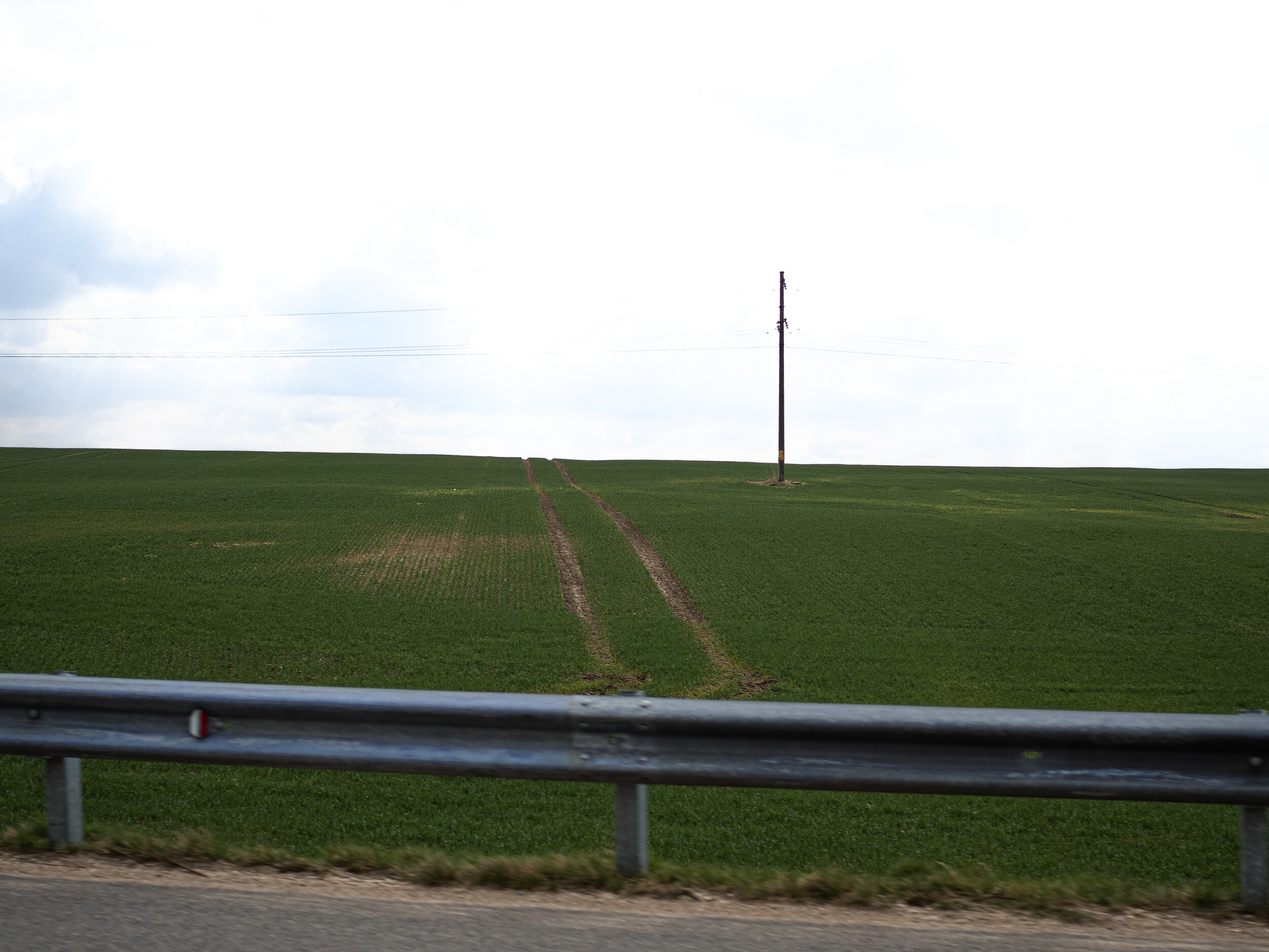
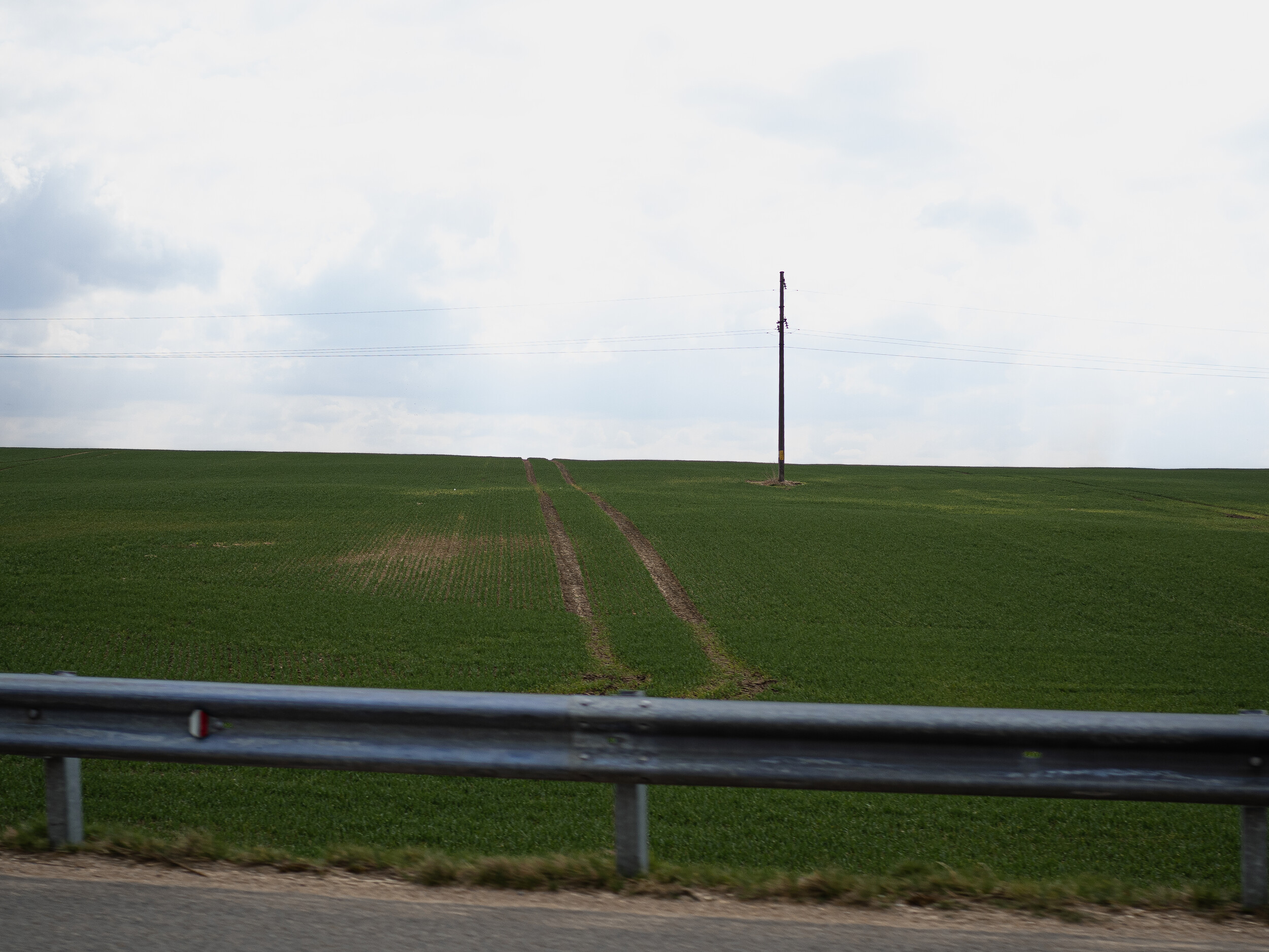
Deploying to gh-pages from @ sunify/photos@cdd427d0ebd54cec449444499ba0542eceeb8890 🚀

diff --git a/index.html b/index.html
@@ -48,7 +48,7 @@
       
         <a href="P4091381.html" tabindex="0" class="item  -h" style="width: 28.050490883590463%">
           <div class="image-container -h">
-            <img src="images/thumbs/P4091381.jpg" style="background-color: rgb(54, 63, 38);"  alt="Off road">
+            <img src="images/thumbs/P4091381.jpg" style="background-color: rgb(231, 233, 236);"  alt="Off road">
           </div>
         </a>
       

diff --git a/P4091381.html b/P4091381.html
@@ -28,7 +28,7 @@
     data-aspect="1.3333333333333333"
     alt="Off road"
   />
-  <div class="preview-placeholder" style="aspect-ratio: 1.3333333333333333; background-color: rgb(54, 63, 38)"></div>
+  <div class="preview-placeholder" style="aspect-ratio: 1.3333333333333333; background-color: rgb(231, 233, 236)"></div>
 
   <a href="." class="back"></a>
 </div>
